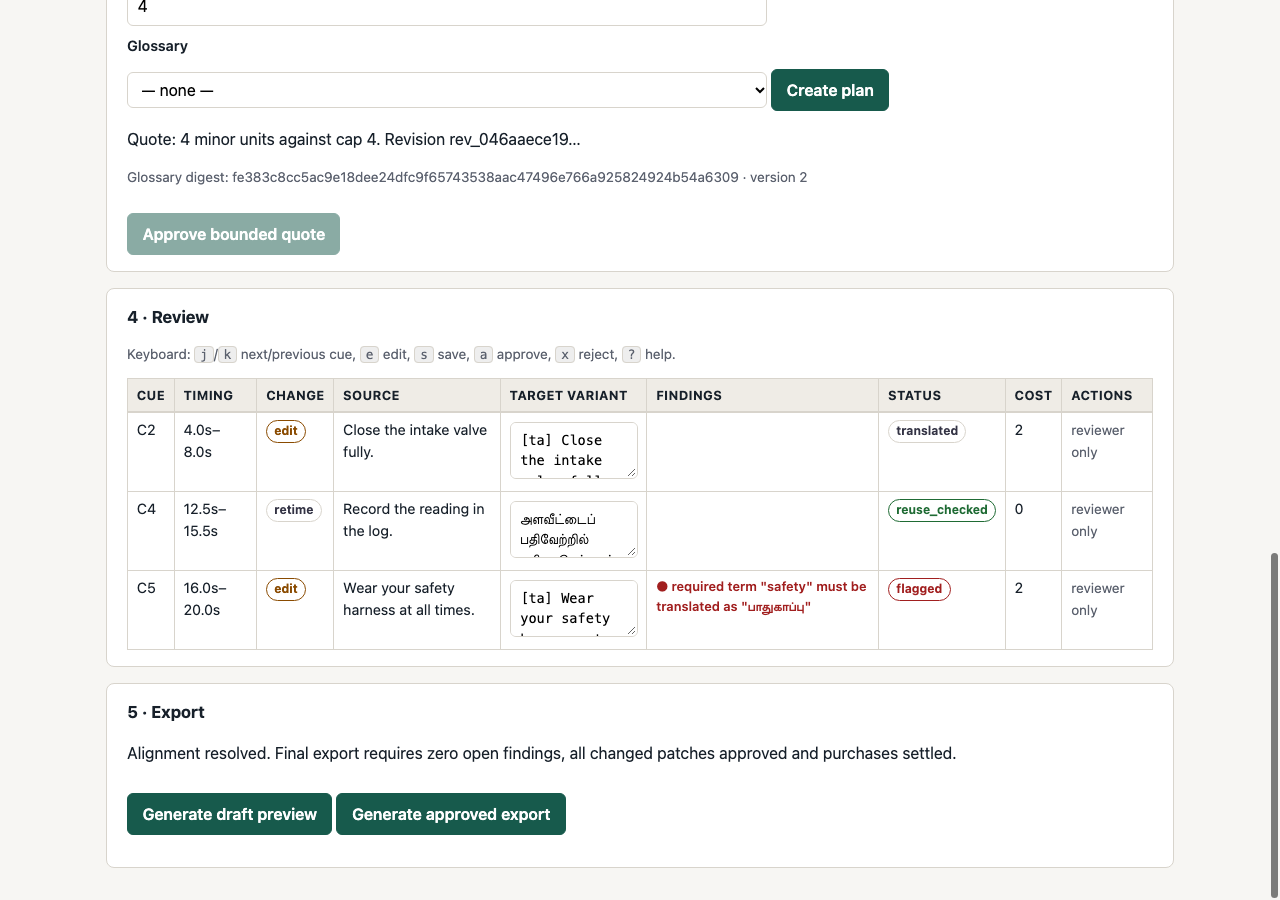
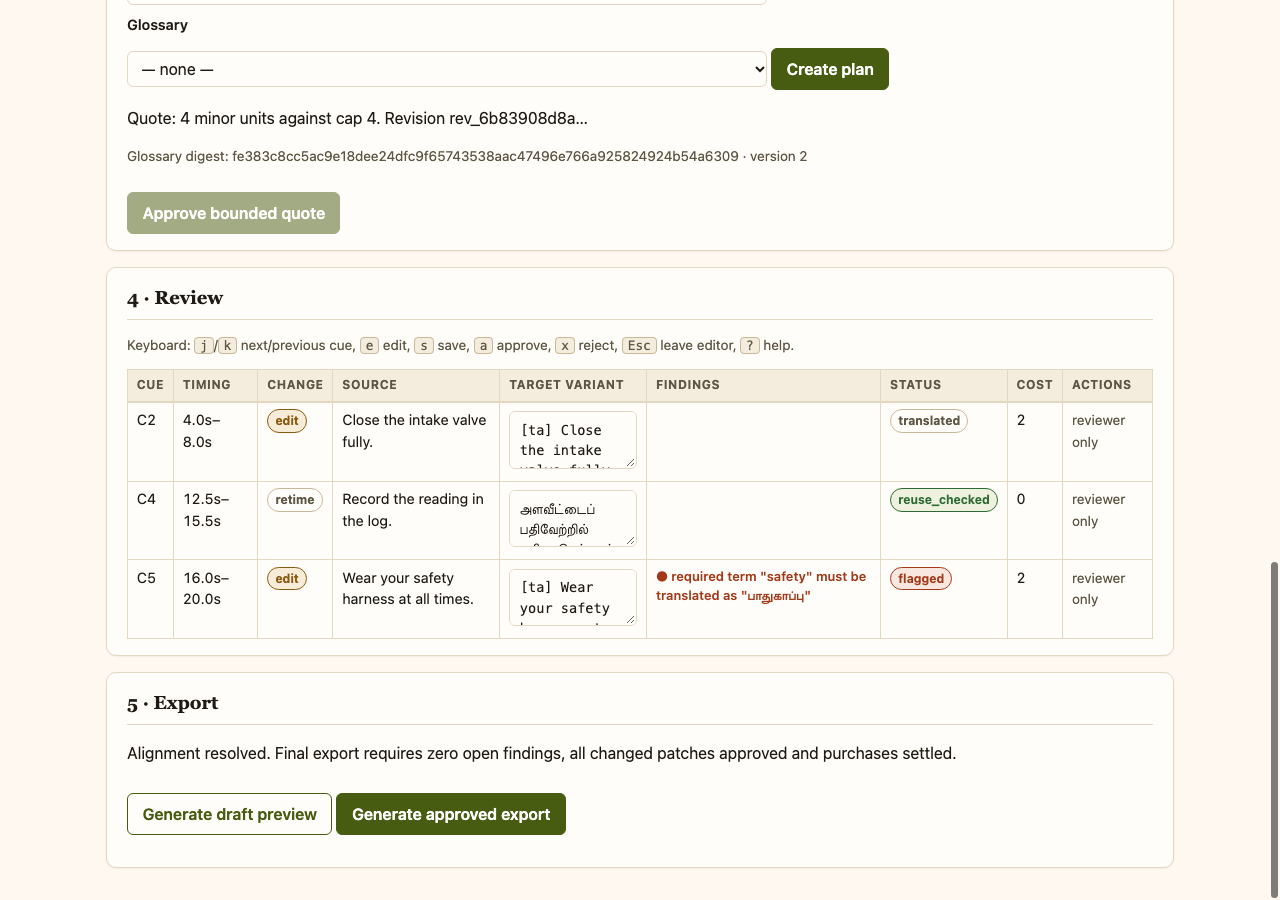
Apply KiteBridge/KiteWorkforce visual vocabulary to the console
Warm paper canvas (#FEF8F0), ink (#1F1A14), warm cards (#FFFDF9) with
#E3D7C2 borders, strong olive (#485C11) actions with white text, error
#A23A1A. Editorial serif headings (Crimson Text, Georgia fallback),
DM Sans/system UI text, tabular-nums figures in grids.

- action hierarchy: solid-olive primary (approve, approved export,
  import, plan) vs outlined secondary (save, reject, draft preview,
  compute alignment, cancel)
- state contrast: filled badges per meaning (ok/amber/error tint),
  selected cue row gets an olive edge + soft fill, findings keep
  open-red vs resolved-struck contrast
- keyboard-visible focus stays a 3px olive ring; focus border on fields
- 320px containment rules preserved (panel is the scroll container)

No new dependencies, no markup structure changes beyond class additions;
all browser-check selectors unchanged.

diff --git a/public/styles.css b/public/styles.css
@@ -1,24 +1,34 @@
 :root {
-  --ink: #17202a;
-  --paper: #f7f6f3;
-  --panel: #ffffff;
-  --line: #d8d4cc;
-  --accent: #175a4c;
+  --ink: #1F1A14;
+  --ink-soft: #5d5644;
+  --paper: #FEF8F0;
+  --panel: #FFFDF9;
+  --line: #E3D7C2;
+  --line-strong: #C9B898;
+  --accent: #485C11;
   --accent-ink: #ffffff;
-  --warn: #8a4b00;
-  --bad: #a11f1f;
-  --ok: #1f6b34;
-  --focus: #0b5fff;
+  --accent-soft: #edf1dd;
+  --warn: #8a5a12;
+  --warn-soft: #f7ecd8;
+  --bad: #A23A1A;
+  --bad-soft: #f8e7de;
+  --ok: #2e6b34;
+  --focus: #485C11;
 }
 
 * { box-sizing: border-box; }
 
 body {
   margin: 0;
-  font-family: ui-sans-serif, system-ui, "Helvetica Neue", Arial, sans-serif;
+  font-family: "DM Sans", ui-sans-serif, system-ui, "Segoe UI", "Helvetica Neue", Arial, sans-serif;
   color: var(--ink);
   background: var(--paper);
   line-height: 1.5;
+}
+
+h1, h2, h3, legend {
+  font-family: "Crimson Text", Georgia, "Times New Roman", serif;
+  font-weight: 700;
 }
 
 .skip {
@@ -40,8 +50,8 @@ body {
   background: var(--accent);
   color: var(--accent-ink);
 }
-.topbar h1 { font-size: 1.25rem; margin: 0; }
-.topbar .tagline { margin: 0; opacity: 0.85; font-size: 0.9rem; }
+.topbar h1 { font-size: 1.3rem; margin: 0; letter-spacing: 0.01em; }
+.topbar .tagline { margin: 0; opacity: 0.88; font-size: 0.9rem; }
 .topbar .identity { margin-left: auto; font-size: 0.85rem; }
 
 main { max-width: 1100px; margin: 0 auto; padding: 1rem; }
@@ -49,11 +59,17 @@ main { max-width: 1100px; margin: 0 auto; padding: 1rem; }
 .panel {
   background: var(--panel);
   border: 1px solid var(--line);
-  border-radius: 8px;
+  border-radius: 10px;
   padding: 1rem 1.25rem;
   margin-bottom: 1rem;
+  box-shadow: 0 1px 2px rgba(31, 26, 20, 0.05);
 }
-.panel h2 { margin-top: 0; font-size: 1.05rem; }
+.panel h2 {
+  margin-top: 0;
+  font-size: 1.15rem;
+  padding-bottom: 0.45rem;
+  border-bottom: 1px solid var(--line);
+}
 
 label { display: block; font-weight: 600; margin-top: 0.6rem; font-size: 0.9rem; }
 input, select, textarea {
@@ -64,8 +80,12 @@ input, select, textarea {
   border-radius: 6px;
   font: inherit;
   margin-top: 0.15rem;
+  background: var(--panel);
+  color: var(--ink);
 }
-textarea { font-family: ui-monospace, monospace; font-size: 0.85rem; }
+input:hover, select:hover, textarea:hover { border-color: var(--line-strong); }
+input:focus-visible, select:focus-visible, textarea:focus-visible { border-color: var(--accent); }
+textarea { font-family: ui-monospace, SFMono-Regular, Menlo, monospace; font-size: 0.85rem; }
 
 button {
   font: inherit;
@@ -78,10 +98,14 @@ button {
   color: var(--accent-ink);
   cursor: pointer;
 }
-button.secondary, .grid button {
+button:hover:not(:disabled) { background: #3a4a0e; }
+button.secondary, .grid button, button.primary {
   background: var(--panel);
   color: var(--accent);
 }
+button.secondary:hover:not(:disabled), .grid button:hover:not(:disabled) { background: var(--accent-soft); }
+button.primary { background: var(--accent); color: var(--accent-ink); }
+button.primary:hover:not(:disabled) { background: #3a4a0e; }
 button:disabled { opacity: 0.5; cursor: not-allowed; }
 
 :focus-visible {
@@ -100,10 +124,20 @@ table.grid th, table.grid td {
   padding: 0.4rem 0.55rem;
   text-align: left;
   vertical-align: top;
+  font-variant-numeric: tabular-nums;
 }
-table.grid th { background: #efece6; font-size: 0.8rem; text-transform: uppercase; letter-spacing: 0.03em; }
-table.grid tr.selected td { background: #e8f0fe; }
+table.grid th {
+  background: #f4ecdc;
+  font-size: 0.75rem;
+  text-transform: uppercase;
+  letter-spacing: 0.05em;
+  color: var(--ink-soft);
+}
+table.grid tr.selected td { background: var(--accent-soft); }
+table.grid tr.selected td:first-child { box-shadow: inset 3px 0 0 var(--accent); }
 table.grid tr[tabindex] { cursor: pointer; }
+table.grid button { margin: 0.15rem 0.15rem 0.15rem 0; padding: 0.3rem 0.6rem; font-size: 0.85rem; }
+table.grid input[type="text"] { max-width: 11rem; padding: 0.3rem 0.5rem; font-size: 0.85rem; }
 
 .badge {
   display: inline-block;
@@ -111,17 +145,25 @@ table.grid tr[tabindex] { cursor: pointer; }
   border-radius: 999px;
   font-size: 0.75rem;
   font-weight: 700;
-  border: 1px solid var(--line);
+  border: 1px solid var(--line-strong);
+  background: var(--panel);
+  color: var(--ink-soft);
 }
-.badge.unchanged, .badge.settled, .badge.approved, .badge.reuse_checked { color: var(--ok); border-color: var(--ok); }
-.badge.retime, .badge.translated { color: #334; }
-.badge.edit, .badge.insertion { color: var(--warn); border-color: var(--warn); }
-.badge.ambiguous, .badge.needs_review, .badge.flagged, .badge.unknown { color: var(--bad); border-color: var(--bad); }
-.badge.draft { color: var(--warn); border-color: var(--warn); }
-.badge.final { color: var(--ok); border-color: var(--ok); }
+.badge.unchanged, .badge.settled, .badge.approved, .badge.reuse_checked {
+  color: var(--ok); border-color: var(--ok); background: var(--accent-soft);
+}
+.badge.retime, .badge.translated { color: var(--ink-soft); }
+.badge.edit, .badge.insertion { color: var(--warn); border-color: var(--warn); background: var(--warn-soft); }
+.badge.ambiguous, .badge.needs_review, .badge.flagged, .badge.unknown {
+  color: var(--bad); border-color: var(--bad); background: var(--bad-soft);
+}
+.badge.draft { color: var(--warn); border-color: var(--warn); background: var(--warn-soft); }
+.badge.final { color: var(--ok); border-color: var(--ok); background: var(--accent-soft); }
 
-.muted { color: #5b616e; font-size: 0.85rem; }
-.mono { font-family: ui-monospace, monospace; font-size: 0.8rem; word-break: break-all; }
+.muted { color: var(--ink-soft); font-size: 0.85rem; }
+.mono { font-family: ui-monospace, SFMono-Regular, Menlo, monospace; font-size: 0.8rem; word-break: break-all; }
+a { color: var(--accent); }
+a:hover { color: #3a4a0e; }
 
 .cardlist { list-style: none; padding: 0; }
 .cardlist li {
@@ -143,13 +185,14 @@ table.grid tr[tabindex] { cursor: pointer; }
 
 #alerts .alert {
   border: 1px solid var(--bad);
-  background: #fbeeee;
+  border-left: 4px solid var(--bad);
+  background: var(--bad-soft);
   color: var(--bad);
   padding: 0.6rem 1rem;
   border-radius: 6px;
   margin: 0.5rem 1rem;
 }
-#alerts .alert.info { border-color: var(--accent); background: #eef6f4; color: var(--accent); }
+#alerts .alert.info { border-color: var(--accent); background: var(--accent-soft); color: var(--accent); }
 
 .findings { list-style: none; margin: 0; padding: 0; font-size: 0.8rem; }
 .findings li { margin-bottom: 0.25rem; }
@@ -157,20 +200,34 @@ table.grid tr[tabindex] { cursor: pointer; }
 .findings .resolved { color: var(--ok); text-decoration: line-through; }
 
 fieldset { border: 1px solid var(--line); border-radius: 8px; }
+legend { padding: 0 0.4rem; }
 
 .breadcrumbs { margin-bottom: 0.75rem; }
 .breadcrumbs a { color: var(--accent); font-weight: 600; }
+#case-title { font-family: "Crimson Text", Georgia, "Times New Roman", serif; font-size: 1.2rem; font-weight: 700; }
 
-dialog { border: 1px solid var(--line); border-radius: 8px; max-width: 30rem; }
+dialog { border: 1px solid var(--line); border-radius: 10px; max-width: 30rem; background: var(--panel); color: var(--ink); }
+dialog::backdrop { background: rgba(31, 26, 20, 0.4); }
 dialog menu { display: flex; gap: 0.5rem; justify-content: flex-end; padding: 0; }
 
 kbd {
-  background: #eee;
-  border: 1px solid var(--line);
+  background: #f4ecdc;
+  border: 1px solid var(--line-strong);
   border-radius: 4px;
   padding: 0 0.3rem;
-  font-family: ui-monospace, monospace;
+  font-family: ui-monospace, SFMono-Regular, Menlo, monospace;
   font-size: 0.8rem;
+}
+
+pre#bootstrap-out {
+  font-family: ui-monospace, SFMono-Regular, Menlo, monospace;
+  font-size: 0.8rem;
+  background: var(--accent-soft);
+  border: 1px solid var(--line);
+  border-radius: 6px;
+  padding: 0.6rem;
+  white-space: pre-wrap;
+  word-break: break-all;
 }
 
 @media (max-width: 480px) {

diff --git a/public/index.html b/public/index.html
@@ -78,7 +78,7 @@
             <button type="submit">Import</button>
           </fieldset>
         </form>
-        <button id="btn-align" type="button">Compute alignment</button>
+        <button id="btn-align" type="button" class="secondary">Compute alignment</button>
       </section>
 
       <section class="panel" id="panel-align">
@@ -114,7 +114,8 @@
       <section class="panel" id="panel-review">
         <h2>4 · Review</h2>
         <p class="muted">Keyboard: <kbd>j</kbd>/<kbd>k</kbd> next/previous cue, <kbd>e</kbd> edit,
-          <kbd>s</kbd> save, <kbd>a</kbd> approve, <kbd>x</kbd> reject, <kbd>?</kbd> help.</p>
+          <kbd>s</kbd> save, <kbd>a</kbd> approve, <kbd>x</kbd> reject, <kbd>Esc</kbd> leave editor,
+          <kbd>?</kbd> help.</p>
         <table class="grid" id="patch-table">
           <caption class="sr-only">Patch review queue</caption>
           <thead><tr>
@@ -129,7 +130,7 @@
       <section class="panel" id="panel-export">
         <h2>5 · Export</h2>
         <div id="export-box"></div>
-        <button id="btn-draft" type="button">Generate draft preview</button>
+        <button id="btn-draft" type="button" class="secondary">Generate draft preview</button>
         <button id="btn-final" type="button">Generate approved export</button>
         <div id="export-list"></div>
       </section>
@@ -153,7 +154,7 @@
       <label for="in-resolve-reason">Reason</label>
       <input id="in-resolve-reason" required>
       <menu>
-        <button value="cancel">Cancel</button>
+        <button value="cancel" class="secondary">Cancel</button>
         <button id="btn-resolve-ok" value="default">Resolve</button>
       </menu>
     </form>

diff --git a/public/app.js b/public/app.js
@@ -155,7 +155,7 @@ function renderAlignment(data) {
   for (const g of data.alignment) {
     const actionCell = el('td');
     if (g.status === 'needs_review') {
-      const btn = el('button', { type: 'button', text: 'Resolve…' });
+      const btn = el('button', { type: 'button', class: 'secondary', text: 'Resolve…' });
       btn.addEventListener('click', () => openResolveDialog(g));
       actionCell.append(btn);
     } else {
@@ -289,7 +289,7 @@ function renderPatches(data) {
     if (canReview) {
       const save = el('button', { type: 'button', class: 'secondary', text: 'Save (s)' });
       save.addEventListener('click', () => saveVariant(p, variant.value));
-      const approve = el('button', { type: 'button', class: 'secondary', text: 'Approve (a)' });
+      const approve = el('button', { type: 'button', class: 'primary', text: 'Approve (a)' });
       approve.addEventListener('click', () => reviewPatch(p, 'approve', variant.value));
       const reject = el('button', { type: 'button', class: 'secondary', text: 'Reject (x)' });
       reject.addEventListener('click', () => reviewPatch(p, 'reject', variant.value));
